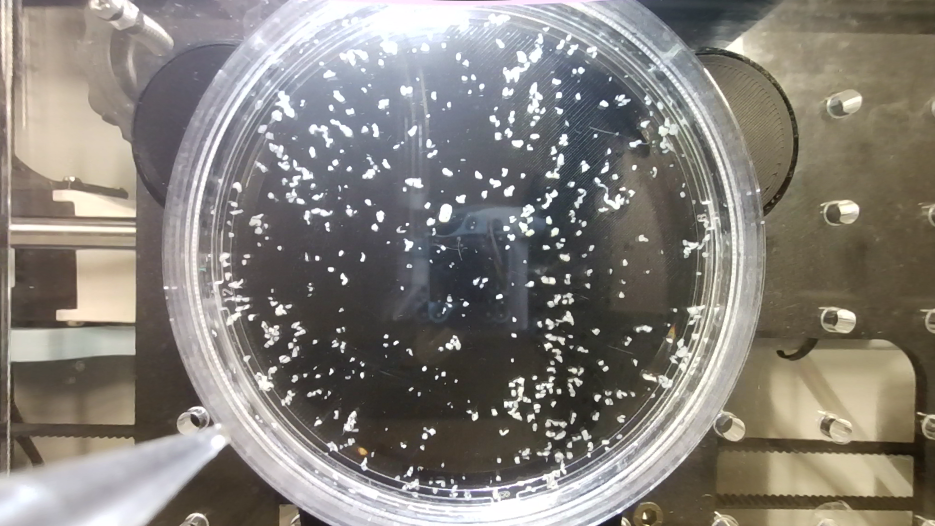
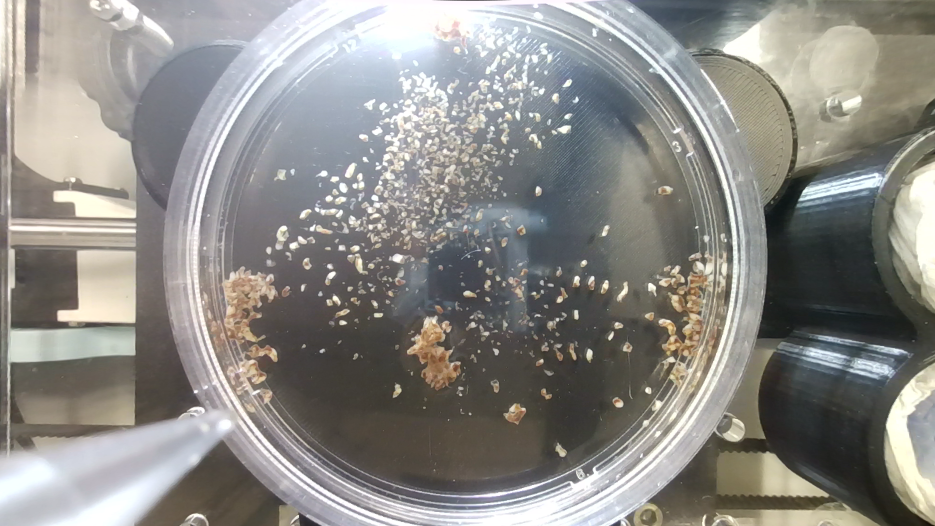
gel prep map

diff --git a/Platform/platform_private_gel.py b/Platform/platform_private_gel.py
@@ -250,7 +250,7 @@ def preparing_gel(self):
     
         if self.com_state == 'not send':
             self.dyna.write_profile_velocity(self.settings["Solution B"]["Solution B pumping speed"], ID = 2)
-            self.pipette_2_pos = self.pipette_empty - (self.settings["Solution A"]["Solution A pumping volume"] + self.settings["Solution B"]["Solution B pumping volume"])*0.9
+            self.pipette_2_pos = self.pipette_empty - (self.settings["Solution A"]["Solution A pumping volume"] + self.settings["Solution B"]["Solution B pumping volume"])*self.settings["Gel"]["Proportion of mixing volume"]
             self.dyna.write_pipette_ul(self.pipette_2_pos, ID = 2)
             self.com_state = 'send'  
 
@@ -278,7 +278,7 @@ def preparing_gel(self):
         
         if self.com_state == 'not send':
             self.dyna.write_profile_velocity(self.settings["Solution B"]["Solution B pumping speed"], ID = 2)
-            self.pipette_2_pos = self.pipette_2_pos + (self.settings["Solution A"]["Solution A pumping volume"] + self.settings["Solution B"]["Solution B pumping volume"])*0.85
+            self.pipette_2_pos = self.pipette_2_pos + (self.settings["Solution A"]["Solution A pumping volume"] + self.settings["Solution B"]["Solution B pumping volume"])*0.8*self.settings["Gel"]["Proportion of mixing volume"]
             self.dyna.write_pipette_ul(self.pipette_2_pos, ID = 2)
             self.com_state = 'send'  
             
@@ -473,4 +473,4 @@ def homming(self):
                 self.state = 'detect'
 
             self.sub_state = 'go to position'
-            self.com_state = 'send'   
+            self.com_state = 'not send'   

diff --git a/Platform/platform_private_sample.py b/Platform/platform_private_sample.py
@@ -26,7 +26,7 @@ def destination(self):
     
     well_pos = [self.culture_well[self.well_num][0], self.culture_well[self.well_num][1]]
     
-    radius = 3
+    radius = 1.8
     if self.nb_sample == 0:
         offset = [0, 0]
     else: 
@@ -211,6 +211,7 @@ def pick(self):
             
             # print(check_pickup(self))
             self.pick_attempt += 1
+            print(self.pick_attempt, self.settings["Detection"]["Max attempt"])
             
             if check_pickup(self):
                 release_tracker(self)
@@ -226,8 +227,8 @@ def pick(self):
                 self.pick_attempt = 0 
                 
             else:
-                self.sub_state == 'correction'
-                self.com_state = 'not send'
+                self.sub_state = 'correction'
+                self.com_state = 'not send' 
                   
                 
 def picture(self):
